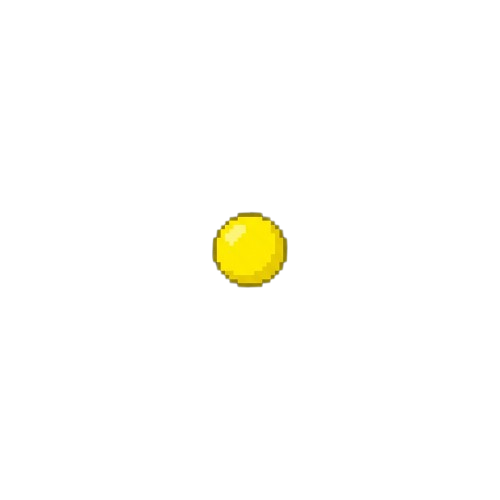
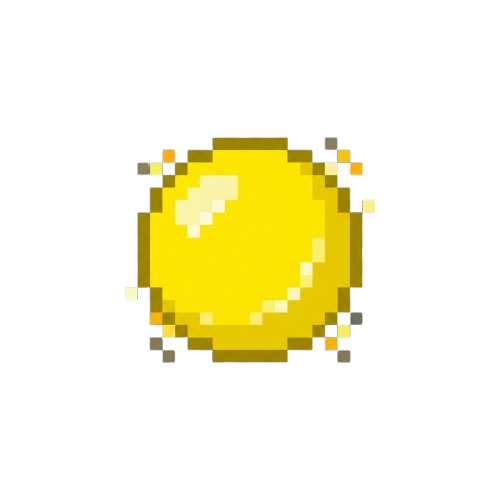
Change image in src

Changed region(s): [[0.24, 0.27, 0.75, 0.75]]

diff --git a/src/screens/game.py b/src/screens/game.py
@@ -51,13 +51,13 @@ class Games(Screen):
                     "yellow": renderer.load_image("src/img/enemy_jaune.png"),
                 }
 
-            self.player_image = renderer.load_image("src/img/pac-jaune2.png")
+            self.player_image = renderer.load_image("src/img/pac.png")
             self.pacgum_image = renderer.load_image("src/img"
                                                     "/pacgum.png")
             self.super_pacgum_image = renderer.load_image("src/img/"
                                                           "super_pacgum.png")
-        except FileNotFoundError as e:
-            print({e})
+        except FileNotFoundError:
+            print("Error file not found")
             sys.exit(1)
 
         if self.maze is None:
